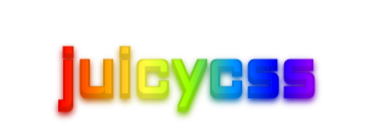
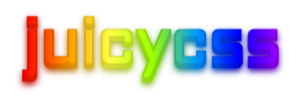
Crop and tune title a bit, add max-width-100

diff --git a/index.html b/index.html
@@ -12,8 +12,8 @@
 <body>
     <div class="container">
         <div class="row wrap">
-            <img src="juicycss_aldrich.png" alt="juicycss">
-            <div class="my-2 align-center">
+            <img class="max-width-100" src="juicycss_aldrich.png" alt="juicycss">
+            <div class="align-center">
                 [Gallery]
             </div>
         </div>

diff --git a/index.css b/index.css
@@ -121,6 +121,10 @@ textarea:focus, input:focus {
   min-width: 150px;
 }
 
+.max-width-100 {
+  max-width: 100%;
+}
+
 .my-1 {
   margin-top: 5px;
   margin-bottom: 5px;

diff --git a/README.md b/README.md
@@ -37,3 +37,4 @@ This library adds CSS classes. Currently it has classes
 * br (border-radius)
 * text-center, text-left, text-right
 * mw-1, mw-2 (min-width)
+* max-width-100 (div has max width of 100%)
